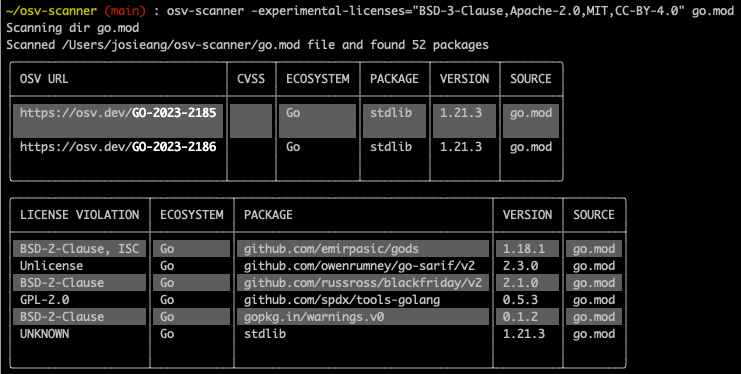
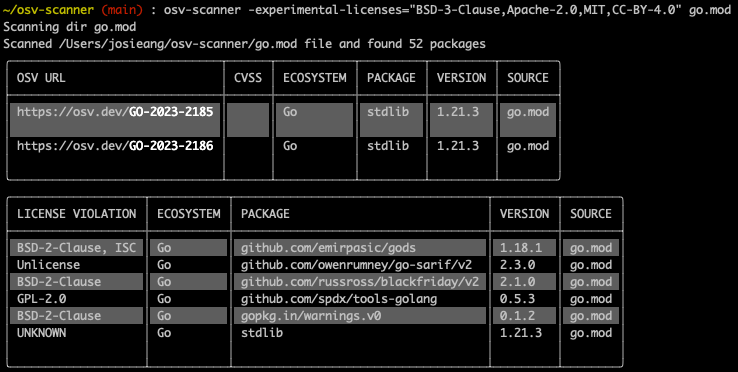
delete old licenses blog name and crop the pngs (#1861)

diff --git a/gcp/appengine/blog/content/posts/introducing-license-scanning-with-osv-scanner/index.md b/gcp/appengine/blog/content/posts/introducing-license-scanning-with-osv-scanner/index.md
@@ -1,6 +1,6 @@
 ---
 title: "Introducing license scanning with OSV-Scanner"
-date: 2023-12-06T01:00:00Z
+date: 2023-12-05T01:00:00Z
 draft: false
 author: Josie Anugerah
 ---
